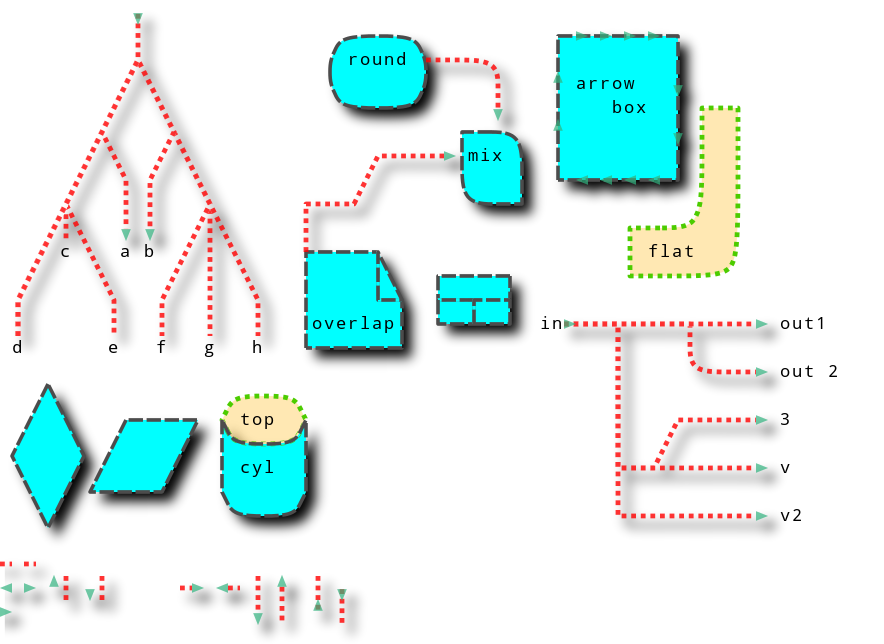
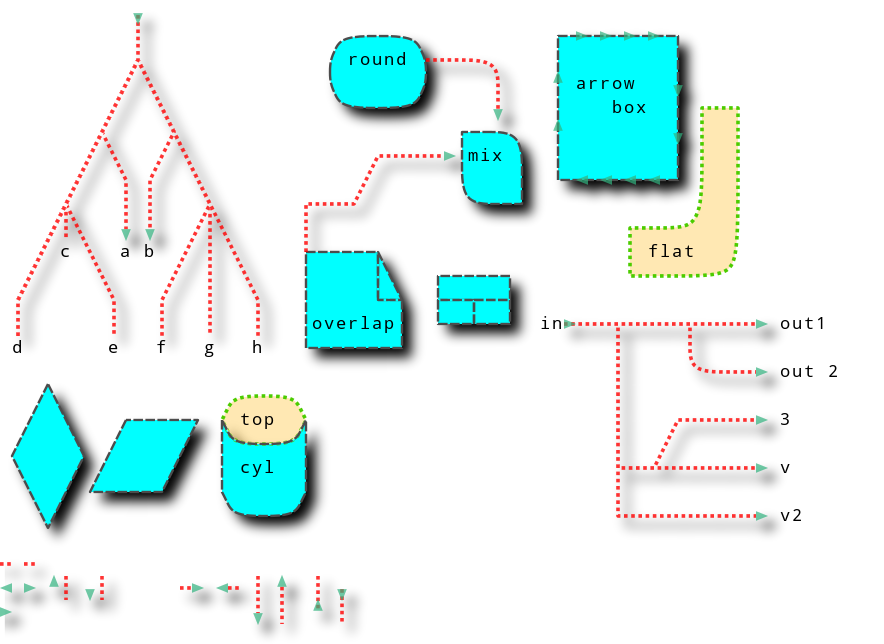
extended unit tests

diff --git a/shaape/style.py b/shaape/style.py
@@ -3,13 +3,19 @@ import copy
 class Style(object):
     COLORS = { 'red' : [1, 0, 0], 'green' : [0, 1, 0], 'blue' : [0, 0, 1] }
     DEFAULT_STYLE = { 'color' : [0, 0, 0, 1], 'type' : 'solid', 'shadow' : 'on', 'width' : 1 }
-    def __init__(self, apply_to_names, target_type, option_list):
+
+    def __init__(self, apply_to_names = [], target_type = '', option_list = []):
         self.__names = apply_to_names
         self.__target_type = target_type
         self.__options = {}
 
-        if type(option_list) <> list:
-            option_list = [option_list]
+        self.set_options(option_list)
+        return
+
+    def options(self):
+        return self.__options
+
+    def set_options(self, option_list):
         # find colors
         colors = filter(lambda x: x in Style.COLORS.keys(), option_list) 
         if len(colors) > 0:
@@ -42,15 +48,6 @@ class Style(object):
             if type(option) == float or type(option) == int:
                 self.set_width(option)
 
-        return
-
-    def options(self):
-        return self.__options
-
-    def set_default(style):
-        Style.DEFAULT_STYLE = dict(Style.DEFAULT_STYLE.items() + style.options().items())
-        return
-
     def merge(self, style):
         self.__options = dict(self.__options.items() + style.options().items())
         return
@@ -60,6 +57,9 @@ class Style(object):
 
     def names(self):
         return self.__names
+
+    def set_names(self, names):
+        self.__names = names
 
     def shadow(self):
         return  dict(Style.DEFAULT_STYLE.items() + self.__options.items())['shadow']
@@ -75,7 +75,7 @@ class Style(object):
         return dict(Style.DEFAULT_STYLE.items() + self.__options.items())['type']
 
     def width(self):
-        return  dict(Style.DEFAULT_STYLE.items() + self.__options.items())['width'] + 1
+        return  dict(Style.DEFAULT_STYLE.items() + self.__options.items())['width']
 
     def set_color(self, color):
         if len(color) == 3 or len(color) == 4:
@@ -93,6 +93,8 @@ class Style(object):
         return
 
     def set_width(self, width):
+        if width <= 0:
+            raise ValueError
         self.__options['width'] = width
         return
 

diff --git a/shaape/styleparser.py b/shaape/styleparser.py
@@ -12,7 +12,6 @@ class StyleParser(Parser):
         return
 
     def run(self, raw_data, drawable_objects):
-        
         styles = filter(lambda x: isinstance(x, Style), drawable_objects)
         named_drawables = filter(lambda x: isinstance(x, Drawable) and isinstance(x, Named), drawable_objects)
         
@@ -32,18 +31,10 @@ class StyleParser(Parser):
                 elif isinstance(obj, Polygon):
                     obj.set_style(default_style['fill'])
                     obj.frame().set_style(default_style['frame'])
-                elif isinstance(obj, OpenGraph):
+                else:
                     obj.set_style(default_style['line'])
 
-            
-               
-
         for style in styles:
-            if '_arrows_' in style.names():
-                for obj in named_drawables:
-                    if style.target_type() == 'fill' and isinstance(obj, Arrow):
-                        obj.set_style(style)
-
             style_names = style.names()
             for obj in named_drawables:
                 if not isinstance(obj, Arrow):

diff --git a/shaape/polygon.py b/shaape/polygon.py
@@ -31,7 +31,6 @@ class Polygon(Drawable, Named, Scalable):
                 if y <= max(p1y,p2y):
                     if x <= max(p1x,p2x):
                         xinters = (y-p1y)*(p2x-p1x)/(p2y-p1y)+p1x
-                        print(p1x, p2x, xinters)
                         if p1x == p2x or x <= xinters:
                             inside = not inside
             p1x,p1y = p2x,p2y
@@ -50,7 +49,11 @@ class Polygon(Drawable, Named, Scalable):
         for n in range(0, len(self.__node_list)):
             node = self.__node_list[n]
             self.__node_list[n] = node * scale
-        self.__frame.scale(scale)
+        if isinstance(self.__frame, Scalable):
+            self.__frame.scale(scale)
 
     def frame(self):
         return self.__frame
+
+    def set_frame(self, frame):
+        self.__frame = frame

diff --git a/shaape/arrow.py b/shaape/arrow.py
@@ -3,12 +3,12 @@ from node import Node
 from translatable import Translatable
 
 class Arrow(Polygon, Translatable):
-    def __init__(self, position):
+    def __init__(self, position = (0, 0)):
         Polygon.__init__(self, [Node(-0.5, 0.2), Node(0.5, 0), Node(-0.5, -0.2)])
         Translatable.__init__(self, position)
         self.style().set_color([0, 0, 0, 1])
         self.style().set_type('flat')
-        self.frame().style().set_width(0)
+        self.set_frame(None)
 
     def scale(self, scale):
         Translatable.scale(self, scale)

diff --git a/shaape/opengraph.py b/shaape/opengraph.py
@@ -1,13 +1,15 @@
 from drawable import Drawable
 from scalable import Scalable
 from operator import itemgetter
+from named import Named
 from graphalgorithms import *
 import networkx as nx
 import copy
 
-class OpenGraph(Drawable, Scalable):
+class OpenGraph(Drawable, Scalable, Named):
     def __init__(self, graph = nx.Graph()):
         Drawable.__init__(self)
+        Named.__init__(self)
         self.style().set_target_type('line')
         self.__graph = graph
         self.__generate_paths()

diff --git a/shaape/shaape.py b/shaape/shaape.py
@@ -64,7 +64,7 @@ class Shaape:
     def backends(self):
         return self.__backends
 
-def main(arguments):
+def main(arguments = None):
     parser = argparse.ArgumentParser(description=' - Asciiart to image processing')
     parser.add_argument('infile', type=str)
     parser.add_argument('-o', '--outfile', type=str)
@@ -75,4 +75,4 @@ def main(arguments):
     shaape.run()
 
 if __name__ == "__main__": # pragma: no cover
-    main(sys.argv)
+    main()
